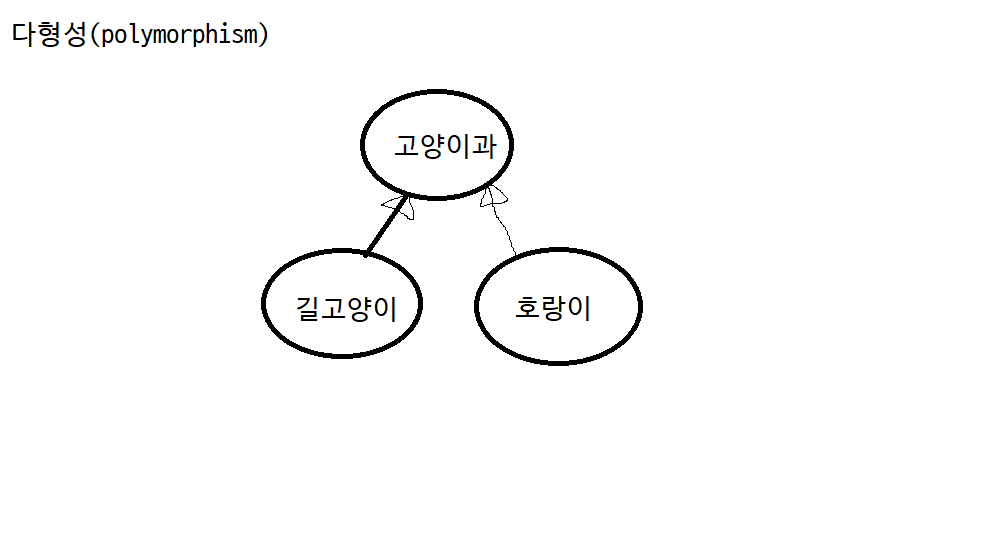
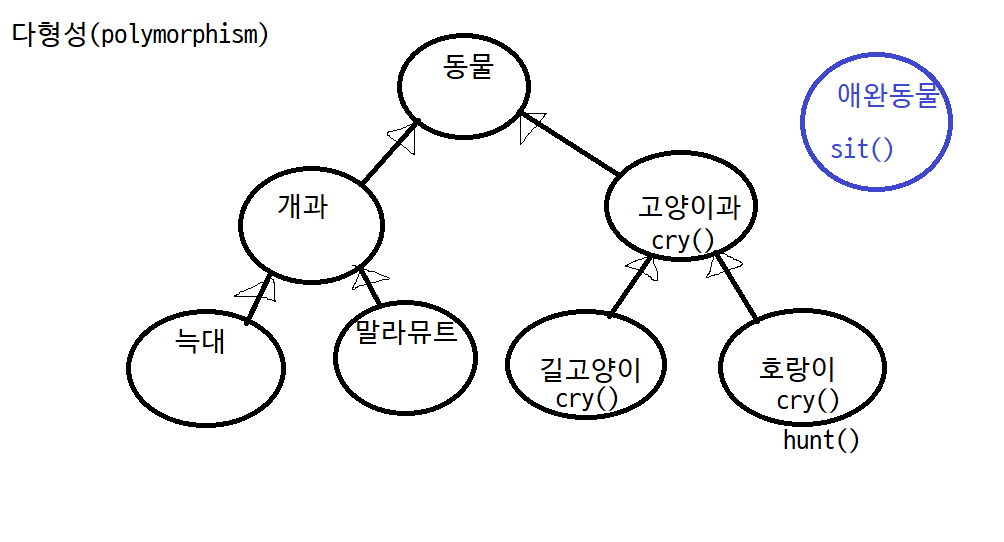
ch08

diff --git a/src/p08/lecture/ex1/A01Interface.java b/src/p08/lecture/ex1/A01Interface.java
@@ -1,0 +1,23 @@
+package p08.lecture.ex1;
+
+public class A01Interface {
+	public static void main(String[] args) {
+		Cat c1 = new Cat();
+		Malamute d1 = new Malamute();
+		
+		KindaCat k1 = c1;
+		Pet p1 = c1;
+		p1.sit();
+		
+		KindaDog k2 = d1;
+		Pet p2 = d1;
+		p2.sit();
+
+//		Pet p3 = new Pet(); // x
+	}
+}
+
+
+
+
+

diff --git a/src/p08/lecture/ex1/Malamute.java b/src/p08/lecture/ex1/Malamute.java
@@ -1,0 +1,9 @@
+package p08.lecture.ex1;
+
+public class Malamute extends KindaDog implements Pet {
+
+	@Override
+	public void sit() {
+		System.out.println("말라뮤트가 앉습니다.");
+	}
+}

diff --git a/src/p08/lecture/ex1/Cat.java b/src/p08/lecture/ex1/Cat.java
@@ -1,0 +1,11 @@
+package p08.lecture.ex1;
+
+public class Cat extends KindaCat implements Pet {
+
+	@Override
+	public void sit() {
+		System.out.println("고양이가 앉습니다.");
+	}
+
+	
+}

diff --git a/src/p08/lecture/ex1/Pet.java b/src/p08/lecture/ex1/Pet.java
@@ -1,0 +1,5 @@
+package p08.lecture.ex1;
+
+public interface Pet {
+	void sit(); // public abstract 생략 가능
+}

diff --git a/src/p08/lecture/ex1/KindaCat.java b/src/p08/lecture/ex1/KindaCat.java
@@ -1,0 +1,5 @@
+package p08.lecture.ex1;
+
+public class KindaCat {
+
+}

diff --git a/src/p08/lecture/ex1/KindaDog.java b/src/p08/lecture/ex1/KindaDog.java
@@ -1,0 +1,5 @@
+package p08.lecture.ex1;
+
+public class KindaDog {
+
+}
